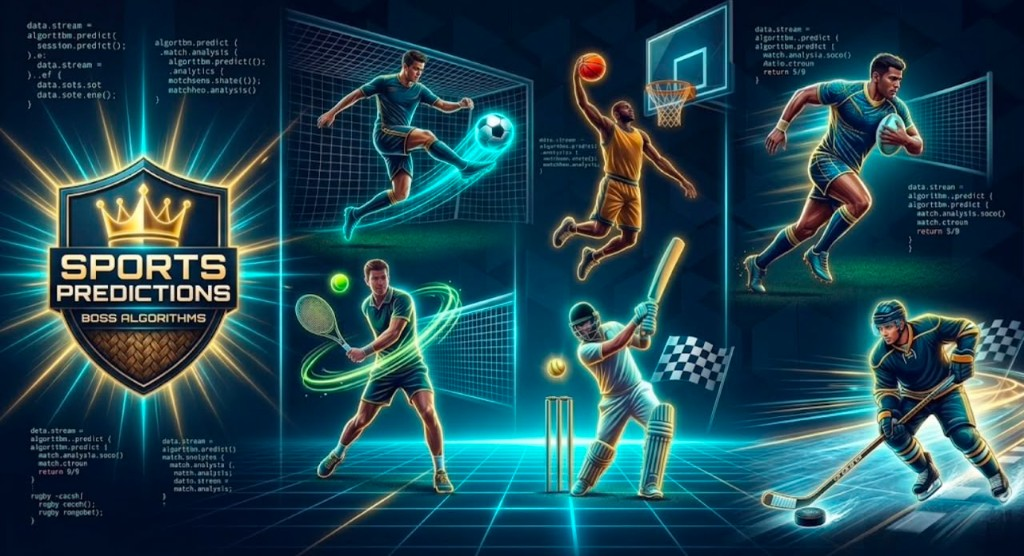
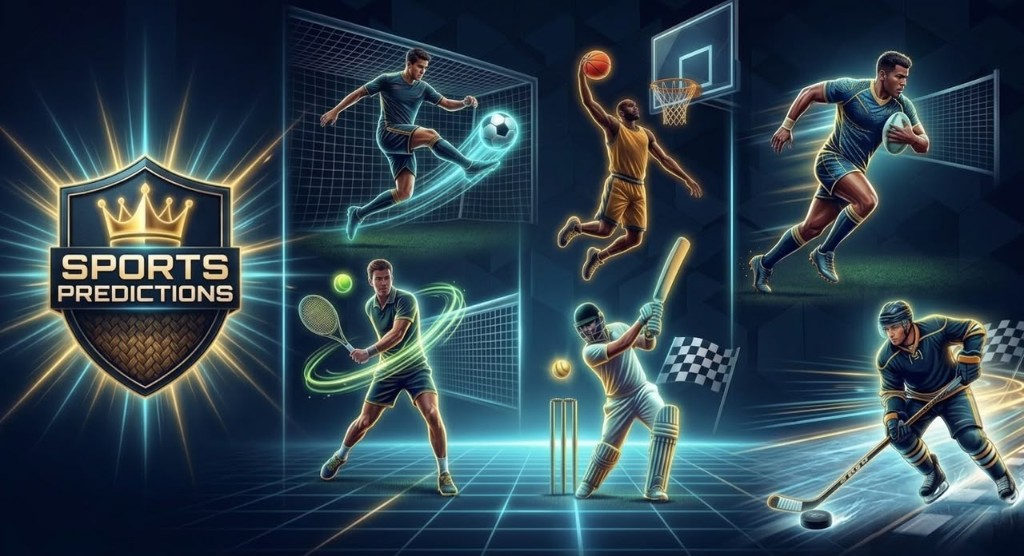
Add the new Sports Predictions art, a 1xBet footer CTA on both views, and a light ember rain behind the site.

diff --git a/index.html b/index.html
@@ -80,10 +80,11 @@
     <link rel="preconnect" href="https://fonts.gstatic.com" crossorigin>
     <link href="https://fonts.googleapis.com/css2?family=Inter:wght@500;600;700;800;900&family=Orbitron:wght@600;700;800;900&family=Plus+Jakarta+Sans:wght@400;500;600;700;800&family=JetBrains+Mono:wght@600;800&display=swap" rel="stylesheet">
     <link rel="stylesheet" href="https://cdnjs.cloudflare.com/ajax/libs/font-awesome/6.5.1/css/all.min.css">
-    <link rel="stylesheet" href="style.css?v=u72">
+    <link rel="stylesheet" href="style.css?v=u73">
     <script src="https://cdn.jsdelivr.net/npm/@supabase/supabase-js@2" defer></script>
 </head>
 <body class="dark-theme">
+    <canvas id="fireEmberCanvas" aria-hidden="true"></canvas>
 
     <!-- ==========================================================================
          VUE 1 : INTERFACE PUBLIQUE & COMMERCIALE
@@ -222,7 +223,7 @@
                     <div class="suite-games-showcase" id="suiteGamesShowcase">
                         <article class="suite-game-card theme-sport suite-game-boss">
                             <div class="suite-game-art">
-                                <img src="assets/games/sports.jpg?v=3" alt="SPORTS PREDICTIONS" class="notranslate" translate="no">
+                                <img src="assets/games/sports.jpg?v=4" alt="SPORTS PREDICTIONS" class="notranslate" translate="no">
                                 <span class="suite-game-shine" aria-hidden="true"></span>
                             </div>
                             <strong class="notranslate" translate="no">SPORTS PREDICTIONS</strong>
@@ -422,6 +423,11 @@
                 <div class="footer-copy"><span>&copy; <span class="notranslate" translate="no">PREDICTOR</span></span>. <span data-i18n="footer_rights">Tous droits réservés.</span></div>
             </div>
         </footer>
+        <a class="xbet-cta-banner" href="https://1xbet.com/" target="_blank" rel="noopener noreferrer">
+            <img src="assets/brands/1xbet.jpg" alt="1xBet" class="xbet-cta-logo notranslate" translate="no">
+            <span class="xbet-cta-text" data-i18n="xbet_cta">PARIEZ AVEC NOS PRÉDICTIONS SUR 1XBET</span>
+            <span class="xbet-cta-arrow" aria-hidden="true">👉</span>
+        </a>
     </div>
 
 
@@ -498,7 +504,7 @@
         <main class="vip-software-body">
             <nav class="vip-game-switcher" id="vipGameSwitcher" aria-label="Sélection du jeu">
                 <button type="button" class="vip-game-chip vip-chip-boss" data-game="sport">
-                    <img src="assets/games/sports.jpg?v=3" alt="" class="vip-chip-logo">
+                    <img src="assets/games/sports.jpg?v=4" alt="" class="vip-chip-logo">
                     <span class="notranslate" translate="no">SPORT</span>
                 </button>
                 <button type="button" class="vip-game-chip" data-game="aviator">
@@ -669,6 +675,11 @@
                 </div>
             </div>
         </main>
+        <a class="xbet-cta-banner" href="https://1xbet.com/" target="_blank" rel="noopener noreferrer">
+            <img src="assets/brands/1xbet.jpg" alt="1xBet" class="xbet-cta-logo notranslate" translate="no">
+            <span class="xbet-cta-text" data-i18n="xbet_cta">PARIEZ AVEC NOS PRÉDICTIONS SUR 1XBET</span>
+            <span class="xbet-cta-arrow" aria-hidden="true">👉</span>
+        </a>
     </div>
 
 
@@ -981,7 +992,8 @@
         </div>
     </div>
 
-    <script src="app.js?v=u70" defer></script>
+    <script src="app.js?v=u71" defer></script>
     <script src="ambient-audio.js?v=9" defer></script>
+    <script src="fire-embers.js?v=1" defer></script>
 </body>
 </html>

diff --git a/fire-embers.js b/fire-embers.js
@@ -1,0 +1,77 @@
+(function () {
+    const canvas = document.getElementById("fireEmberCanvas");
+    if (!canvas || !canvas.getContext) return;
+    if (window.matchMedia && window.matchMedia("(prefers-reduced-motion: reduce)").matches) return;
+
+    const ctx = canvas.getContext("2d", { alpha: true });
+    const embers = [];
+    let width = 0;
+    let height = 0;
+    let rafId = 0;
+    let lastTs = 0;
+
+    function emberCount() {
+        const w = window.innerWidth || 360;
+        return w < 600 ? 16 : 24;
+    }
+
+    function spawnEmber(randomY) {
+        return {
+            x: Math.random() * width,
+            y: randomY ? Math.random() * height : -8 - Math.random() * 40,
+            r: 0.6 + Math.random() * 1.4,
+            vy: 18 + Math.random() * 28,
+            vx: (Math.random() - 0.5) * 8,
+            a: 0.18 + Math.random() * 0.28,
+            hue: 22 + Math.random() * 28
+        };
+    }
+
+    function resize() {
+        const dpr = Math.min(window.devicePixelRatio || 1, 2);
+        width = window.innerWidth || 360;
+        height = window.innerHeight || 640;
+        canvas.width = Math.floor(width * dpr);
+        canvas.height = Math.floor(height * dpr);
+        canvas.style.width = width + "px";
+        canvas.style.height = height + "px";
+        ctx.setTransform(dpr, 0, 0, dpr, 0, 0);
+        const n = emberCount();
+        embers.length = 0;
+        for (let i = 0; i < n; i++) embers.push(spawnEmber(true));
+    }
+
+    function tick(ts) {
+        rafId = requestAnimationFrame(tick);
+        if (document.hidden) return;
+        const dt = lastTs ? Math.min(0.05, (ts - lastTs) / 1000) : 0.016;
+        lastTs = ts;
+        ctx.clearRect(0, 0, width, height);
+        for (let i = 0; i < embers.length; i++) {
+            const p = embers[i];
+            p.y += p.vy * dt;
+            p.x += p.vx * dt;
+            if (p.y > height + 10 || p.x < -12 || p.x > width + 12) {
+                embers[i] = spawnEmber(false);
+                continue;
+            }
+            ctx.beginPath();
+            ctx.fillStyle = "hsla(" + p.hue + ", 95%, 62%, " + p.a + ")";
+            ctx.shadowColor = "hsla(" + p.hue + ", 100%, 58%, 0.55)";
+            ctx.shadowBlur = 6;
+            ctx.arc(p.x, p.y, p.r, 0, Math.PI * 2);
+            ctx.fill();
+        }
+        ctx.shadowBlur = 0;
+    }
+
+    resize();
+    window.addEventListener("resize", resize, { passive: true });
+    document.addEventListener("visibilitychange", function () {
+        if (!document.hidden) lastTs = 0;
+    });
+    rafId = requestAnimationFrame(tick);
+    window.addEventListener("pagehide", function () {
+        cancelAnimationFrame(rafId);
+    }, { once: true });
+})();

diff --git a/style.css b/style.css
@@ -73,6 +73,69 @@ button:disabled { opacity: 0.55; cursor: not-allowed; transform: none !important
 }
 
 .site-view-wrapper { width: 100%; min-height: 100vh; position: relative; z-index: 1; }
+#fireEmberCanvas {
+    position: fixed;
+    inset: 0;
+    width: 100%;
+    height: 100%;
+    pointer-events: none;
+    z-index: 0;
+}
+.xbet-cta-banner {
+    display: flex;
+    align-items: center;
+    justify-content: center;
+    flex-wrap: wrap;
+    gap: 10px 14px;
+    margin: 8px 16px 22px;
+    padding: 12px 16px;
+    border-radius: 14px;
+    text-decoration: none;
+    color: #f8fafc;
+    background: linear-gradient(90deg, rgba(6, 18, 42, 0.96), rgba(8, 36, 72, 0.96));
+    border: 1px solid rgba(56, 189, 248, 0.5);
+    box-shadow: 0 0 22px rgba(56, 189, 248, 0.18);
+    position: relative;
+    z-index: 2;
+}
+.xbet-cta-logo {
+    height: 34px;
+    width: auto;
+    max-width: 120px;
+    object-fit: contain;
+    border-radius: 6px;
+    animation: xbetNeonPulse 1.8s ease-in-out infinite;
+}
+.xbet-cta-text {
+    font-family: var(--font-heading);
+    font-weight: 900;
+    font-size: clamp(0.72rem, 3.2vw, 0.98rem);
+    letter-spacing: 0.04em;
+    text-align: center;
+    line-height: 1.25;
+}
+.xbet-cta-arrow {
+    font-size: 1.25rem;
+    line-height: 1;
+    animation: xbetNeonPulse 1.8s ease-in-out infinite;
+    animation-delay: 0.25s;
+}
+@keyframes xbetNeonPulse {
+    0%, 100% {
+        filter: drop-shadow(0 0 4px rgba(125, 211, 252, 0.35));
+        transform: scale(1);
+        opacity: 0.92;
+    }
+    50% {
+        filter: drop-shadow(0 0 12px rgba(255, 255, 255, 0.85)) drop-shadow(0 0 10px rgba(56, 189, 248, 0.95));
+        transform: scale(1.07);
+        opacity: 1;
+    }
+}
+@media (prefers-reduced-motion: reduce) {
+    .xbet-cta-logo,
+    .xbet-cta-arrow { animation: none; }
+}
 .hidden { display: none !important; }
 .text-center { text-align: center; }
 .text-green { color: var(--accent-green); }
@@ -3028,4 +3091,11 @@ button.vip-member-tag:hover {
     .vip-chip-logo { width: 30px; height: 30px; }
     .mine-cell.is-safe::after { font-size: 0.95rem; }
     .apple-cell { height: 22px; }
+    .xbet-cta-banner {
+        margin: 6px 10px 18px;
+        padding: 10px 12px;
+        gap: 8px;
+    }
+    .xbet-cta-logo { height: 28px; max-width: 96px; }
+    .xbet-cta-text { font-size: 0.68rem; }
 }

diff --git a/app.js b/app.js
@@ -142,6 +142,7 @@ const TRANSLATIONS = {
         remaining_txt: "restants",
         footer_copy: "© PREDICTOR. Tous droits réservés.",
         footer_rights: "Tous droits réservés.",
+        xbet_cta: "PARIEZ AVEC NOS PRÉDICTIONS SUR 1XBET",
         footer_admin: "Espace administrateur",
         vip_official: "OFFICIEL",
         vip_radar_live: "SIGNAUX EN DIRECT",
@@ -289,6 +290,7 @@ const TRANSLATIONS = {
         remaining_txt: "remaining",
         footer_copy: "© PREDICTOR. All rights reserved.",
         footer_rights: "All rights reserved.",
+        xbet_cta: "BET WITH OUR PREDICTIONS ON 1XBET",
         footer_admin: "Admin portal",
         vip_official: "OFFICIAL",
         vip_radar_live: "LIVE RADAR FEED",
@@ -436,6 +438,7 @@ const TRANSLATIONS = {
         remaining_txt: "restantes",
         footer_copy: "© PREDICTOR. Todos los derechos reservados.",
         footer_rights: "Todos los derechos reservados.",
+        xbet_cta: "APUESTA CON NUESTRAS PREDICCIONES EN 1XBET",
         footer_admin: "Acceso Administrador",
         vip_official: "OFICIAL",
         vip_radar_live: "RADAR EN VIVO",
@@ -583,6 +586,7 @@ const TRANSLATIONS = {
         remaining_txt: "restantes",
         footer_copy: "© PREDICTOR. Todos os direitos reservados.",
         footer_rights: "Todos os direitos reservados.",
+        xbet_cta: "APOSTE COM AS NOSSAS PREVISÕES NA 1XBET",
         footer_admin: "Área de Administração",
         vip_official: "OFICIAL",
         vip_radar_live: "RADAR EM DIRETO",
@@ -730,6 +734,7 @@ const TRANSLATIONS = {
         remaining_txt: "übrig",
         footer_copy: "© PREDICTOR. Alle Rechte vorbehalten.",
         footer_rights: "Alle Rechte vorbehalten.",
+        xbet_cta: "WETTEN SIE MIT UNSEREN TIPPS AUF 1XBET",
         footer_admin: "Admin-Bereich",
         vip_official: "OFFIZIELL",
         vip_radar_live: "LIVE-RADARFEED",
